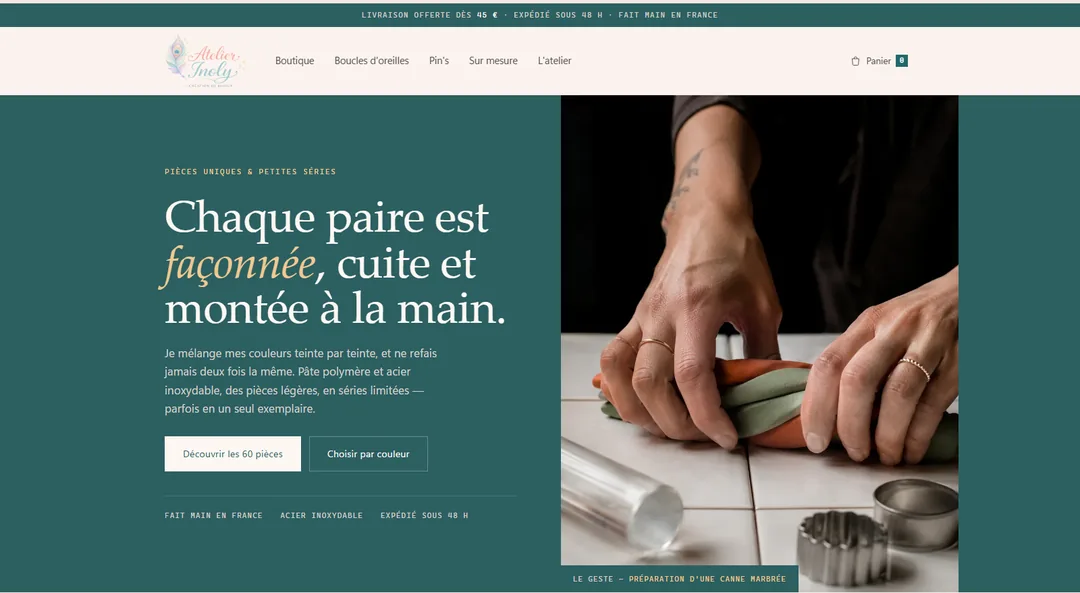
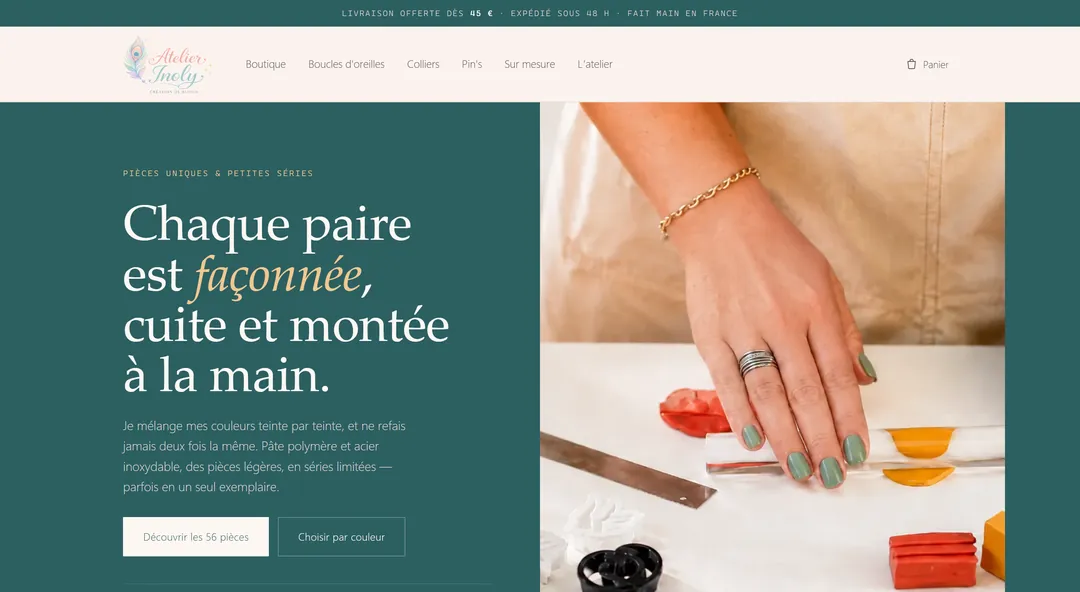
Atelier Inoly est livre : passe le projet en tete du portfolio et de l'accueil
Le site tourne sur atelierinoly.fr. L'etude de cas perd son badge
« Projet en cours » et gagne un lien « Voir le site en ligne ». Elle
passe devant Charlies Gabriella, et prend sa place dans le bloc
« Derniere realisation » de l'accueil.

Les six captures sont refaites depuis le site reel. Le chapeau du
portfolio annonce desormais deux sites en ligne au lieu d'un.

La FAQ de /site-ecommerce parlait de WooCommerce sans pouvoir le
prouver : elle renvoie maintenant vers l'etude de cas. La regle CSS
.offer__item .link-out existait mais etait morte — il lui manquait
grid-column pour tomber sous le paragraphe. D'ou le passage du CSS
en v=14 sur les sept pages.

diff --git a/portfolio.html b/portfolio.html
@@ -30,7 +30,7 @@
 <link rel="preload" href="/assets/fonts/bricolage-grotesque-latin.woff2" as="font" type="font/woff2" crossorigin>
 <link rel="preload" href="/assets/fonts/inter-tight-latin.woff2" as="font" type="font/woff2" crossorigin>
 <link rel="stylesheet" href="/assets/css/fonts.css?v=1">
-<link rel="stylesheet" href="/assets/css/style.css?v=13">
+<link rel="stylesheet" href="/assets/css/style.css?v=14">
 </head>
 <body>
 
@@ -79,14 +79,115 @@
         et des décisions. Voici les miennes, projet par projet.
       </p>
       <p class="lede">
-        Quatre projets, à trois stades différents : un site en ligne, une boutique en
-        cours de développement, et deux sites de démonstration que j'ai construits pour
-        moi. Chacun porte son statut — vous saurez toujours ce que vous regardez.
+        Quatre projets : deux sites en ligne, et deux sites de démonstration que j'ai
+        construits pour moi. Chacun porte son statut — vous saurez toujours ce que
+        vous regardez.
       </p>
     </div>
   </section>
 
   <!-- ────────────────────────  ÉTUDE DE CAS  ──────────────────────── -->
+  <article class="section section--bone case">
+    <div class="shell">
+
+      <figure class="case__shot">
+        <picture>
+          <source type="image/webp"
+                  sizes="(max-width: 1100px) 100vw, 1040px"
+                  srcset="/assets/img/atelier-inoly-720.webp?v=2 720w,
+                          /assets/img/atelier-inoly-1080.webp?v=2 1080w,
+                          /assets/img/atelier-inoly-1440.webp?v=2 1440w">
+          <img src="/assets/img/atelier-inoly-1080.jpg?v=2"
+               sizes="(max-width: 1100px) 100vw, 1040px"
+               srcset="/assets/img/atelier-inoly-720.jpg?v=2 720w,
+                       /assets/img/atelier-inoly-1080.jpg?v=2 1080w,
+                       /assets/img/atelier-inoly-1440.jpg?v=2 1440w"
+               alt="Page d'accueil du site Atelier Inoly : titre « Chaque paire est façonnée, cuite et montée à la main » et photo d'un geste de façonnage en pâte polymère"
+               width="1440" height="790" fetchpriority="high">
+        </picture>
+      </figure>
+
+      <div class="case__body">
+        <div class="case__intro">
+          <p class="label">Étude de cas</p>
+          <h2 class="section__title">Atelier Inoly — la boutique de bijoux de Gwenaëlle</h2>
+          <p class="lede">
+            Une refonte de boutique en ligne pensée pour un produit où la couleur prime sur
+            tout : chaque bijou est une pièce quasi unique, et un classement par catégorie
+            ne suffit pas à s'y retrouver.
+          </p>
+          <a class="link-out" href="https://atelierinoly.fr/" target="_blank" rel="noopener">
+            Voir le site en ligne
+            <span aria-hidden="true">↗</span>
+          </a>
+        </div>
+
+        <div class="case__text">
+          <h3>Le besoin</h3>
+          <p>
+            Gwenaëlle façonne des bijoux en pâte polymère et acier inoxydable sous le nom
+            Atelier Inoly : boucles d'oreilles et pin's, en pièces uniques ou petites séries,
+            jamais deux fois la même teinte. Sa boutique en ligne ne rendait pas justice à ce
+            travail — impossible de naviguer par couleur, aucun espace pour expliquer la
+            fabrication, et pas de page pour le sur-mesure qu'elle propose déjà à ses clientes.
+          </p>
+
+          <h3>La réponse</h3>
+          <p>
+            Une charte graphique reconstruite à partir des contraintes de lisibilité réelles
+            du logo plutôt que de ses couleurs telles quelles, et un dispositif de navigation
+            par teinte — le nuancier — qui devient l'entrée principale du catalogue. Une page
+            dédiée présente l'atelier et le geste ; une autre porte la demande de bijou sur
+            mesure, jusque-là absente du site.
+          </p>
+
+          <h3>Ce que contient le site</h3>
+          <ul class="case__list">
+            <li>Un nuancier pour parcourir le catalogue par couleur plutôt que par catégorie</li>
+            <li>Une fiche produit avec choix de teinte et disponibilité par pièce</li>
+            <li>Une page « Sur mesure » avec formulaire de demande personnalisée</li>
+            <li>Une page « L'atelier » qui présente Gwenaëlle et sa façon de travailler</li>
+            <li>Un catalogue de 56 pièces, filtrable et paginé</li>
+          </ul>
+
+          <h3>Le choix technique</h3>
+          <p>
+            Contrairement à Charlies Gabriella, Gwenaëlle doit gérer elle-même son stock, ses
+            commandes et ses fiches produit au quotidien : WordPress et WooCommerce, plutôt
+            qu'un site statique, sont ici le bon outil. Le thème est développé sur mesure
+            au-dessus de WooCommerce plutôt que de partir d'un thème du commerce, pour que la
+            navigation par couleur — le vrai sujet du site — ne soit pas un compromis.
+          </p>
+        </div>
+
+        <dl class="case__meta">
+          <div>
+            <dt>Client</dt>
+            <dd>Gwenaëlle — Atelier Inoly</dd>
+          </div>
+          <div>
+            <dt>Projet</dt>
+            <dd>Refonte de boutique en ligne</dd>
+          </div>
+          <div>
+            <dt>Année</dt>
+            <dd>2026</dd>
+          </div>
+          <div>
+            <dt>Réalisation</dt>
+            <dd>Thème WordPress / WooCommerce sur mesure</dd>
+          </div>
+        </dl>
+      </div>
+
+    </div>
+  </article>
+
+  <div class="section section--bone case-divider">
+    <span>Étude de cas — 02 / 04</span>
+  </div>
+
+  <!-- ────────────────────────  ÉTUDE DE CAS 2  ─────────────────────── -->
   <article class="section section--bone case">
     <div class="shell">
 
@@ -103,7 +204,7 @@
                        /assets/img/charliesgi-1080.jpg 1080w,
                        /assets/img/charliesgi-1440.jpg 1440w"
                alt="Page d'accueil du site Charlies Gabriella : titre « Rituel du Portail du Lion 8/8 », illustration d'un lion, bouton de réservation et barre d'achat"
-               width="1440" height="1000" fetchpriority="high">
+               width="1440" height="1000" loading="lazy">
         </picture>
       </figure>
 
@@ -174,104 +275,6 @@
           <div>
             <dt>Réalisation</dt>
             <dd>Page unique statique, paiement Stripe</dd>
-          </div>
-        </dl>
-      </div>
-
-    </div>
-  </article>
-
-  <div class="section section--bone case-divider">
-    <span>Étude de cas — 02 / 04</span>
-  </div>
-
-  <!-- ────────────────────────  ÉTUDE DE CAS 2  ─────────────────────── -->
-  <article class="section section--bone case">
-    <div class="shell">
-
-      <figure class="case__shot">
-        <picture>
-          <source type="image/webp"
-                  sizes="(max-width: 1100px) 100vw, 1040px"
-                  srcset="/assets/img/atelier-inoly-720.webp 720w,
-                          /assets/img/atelier-inoly-1080.webp 1080w,
-                          /assets/img/atelier-inoly-1440.webp 1440w">
-          <img src="/assets/img/atelier-inoly-1080.jpg"
-               sizes="(max-width: 1100px) 100vw, 1040px"
-               srcset="/assets/img/atelier-inoly-720.jpg 720w,
-                       /assets/img/atelier-inoly-1080.jpg 1080w,
-                       /assets/img/atelier-inoly-1440.jpg 1440w"
-               alt="Maquette de la page d'accueil Atelier Inoly : titre « Chaque paire est façonnée, cuite et montée à la main » et photo d'un geste de façonnage en pâte polymère"
-               width="1440" height="790" loading="lazy">
-        </picture>
-      </figure>
-
-      <div class="case__body">
-        <div class="case__intro">
-          <p class="label">Étude de cas</p>
-          <span class="case__status">Projet en cours — pas encore en ligne</span>
-          <h2 class="section__title">Atelier Inoly — la boutique de bijoux de Gwenaëlle</h2>
-          <p class="lede">
-            Une refonte de boutique en ligne pensée pour un produit où la couleur prime sur
-            tout : chaque bijou est une pièce quasi unique, et un classement par catégorie
-            ne suffit pas à s'y retrouver.
-          </p>
-        </div>
-
-        <div class="case__text">
-          <h3>Le besoin</h3>
-          <p>
-            Gwenaëlle façonne des bijoux en pâte polymère et acier inoxydable sous le nom
-            Atelier Inoly : boucles d'oreilles et pin's, en pièces uniques ou petites séries,
-            jamais deux fois la même teinte. Sa boutique en ligne ne rendait pas justice à ce
-            travail — impossible de naviguer par couleur, aucun espace pour expliquer la
-            fabrication, et pas de page pour le sur-mesure qu'elle propose déjà à ses clientes.
-          </p>
-
-          <h3>La réponse</h3>
-          <p>
-            Une charte graphique reconstruite à partir des contraintes de lisibilité réelles
-            du logo plutôt que de ses couleurs telles quelles, et un dispositif de navigation
-            par teinte — le nuancier — qui devient l'entrée principale du catalogue. Une page
-            dédiée présente l'atelier et le geste ; une autre porte la demande de bijou sur
-            mesure, jusque-là absente du site.
-          </p>
-
-          <h3>Ce que contient la maquette</h3>
-          <ul class="case__list">
-            <li>Un nuancier pour parcourir le catalogue par couleur plutôt que par catégorie</li>
-            <li>Une fiche produit avec choix de teinte et disponibilité par pièce</li>
-            <li>Une page « Sur mesure » avec formulaire de demande personnalisée</li>
-            <li>Une page « L'atelier » qui présente Gwenaëlle et sa façon de travailler</li>
-            <li>Un catalogue de 60 pièces, filtrable et paginé</li>
-          </ul>
-
-          <h3>Le choix technique</h3>
-          <p>
-            Contrairement à Charlies Gabriella, Gwenaëlle doit gérer elle-même son stock, ses
-            commandes et ses fiches produit au quotidien : WordPress et WooCommerce, plutôt
-            qu'un site statique, sont ici le bon outil. Le thème est développé sur mesure
-            au-dessus de WooCommerce plutôt que de partir d'un thème du commerce, pour que la
-            navigation par couleur — le vrai sujet du site — ne soit pas un compromis.
-          </p>
-        </div>
-
-        <dl class="case__meta">
-          <div>
-            <dt>Client</dt>
-            <dd>Gwenaëlle — Atelier Inoly</dd>
-          </div>
-          <div>
-            <dt>Projet</dt>
-            <dd>Refonte de boutique en ligne</dd>
-          </div>
-          <div>
-            <dt>Statut</dt>
-            <dd>Maquette validée, développement en cours</dd>
-          </div>
-          <div>
-            <dt>Réalisation</dt>
-            <dd>Thème WordPress / WooCommerce sur mesure</dd>
           </div>
         </dl>
       </div>

diff --git a/index.html b/index.html
@@ -31,7 +31,7 @@
 <link rel="preload" href="/assets/fonts/bricolage-grotesque-latin.woff2" as="font" type="font/woff2" crossorigin>
 <link rel="preload" href="/assets/fonts/inter-tight-latin.woff2" as="font" type="font/woff2" crossorigin>
 <link rel="stylesheet" href="/assets/css/fonts.css?v=1">
-<link rel="stylesheet" href="/assets/css/style.css?v=13">
+<link rel="stylesheet" href="/assets/css/style.css?v=14">
 
 <!-- Données structurées : décrivent l'activité à Google dans un format
      qu'il lit sans interprétation. « address » est le siège réel, qui
@@ -194,10 +194,10 @@
     <div class="shell showcase__inner">
       <div class="showcase__text">
         <p class="label">Dernière réalisation</p>
-        <h2 class="section__title">Charlies Gabriella — Rituel du Portail du Lion</h2>
+        <h2 class="section__title">Atelier Inoly — la boutique de bijoux de Gwenaëlle</h2>
         <p class="lede">
-          Une page de vente pour un lancement daté : quatre paliers de prix,
-          un compte à rebours, et un paiement en un clic.
+          Une boutique en ligne où l'on choisit d'abord la couleur : un nuancier
+          en guise de rayon, 56 pièces, et un thème WooCommerce fait sur mesure.
         </p>
         <a class="link-out" href="/portfolio">
           Voir l'étude de cas
@@ -205,20 +205,20 @@
         </a>
       </div>
 
-      <a class="showcase__shot" href="/portfolio" aria-label="Voir l'étude de cas du site Charlies Gabriella">
+      <a class="showcase__shot" href="/portfolio" aria-label="Voir l'étude de cas du site Atelier Inoly">
         <picture>
           <source type="image/webp"
                   sizes="(max-width: 900px) 100vw, 50vw"
-                  srcset="/assets/img/charliesgi-720.webp 720w,
-                          /assets/img/charliesgi-1080.webp 1080w,
-                          /assets/img/charliesgi-1440.webp 1440w">
-          <img src="/assets/img/charliesgi-1080.jpg"
+                  srcset="/assets/img/atelier-inoly-720.webp?v=2 720w,
+                          /assets/img/atelier-inoly-1080.webp?v=2 1080w,
+                          /assets/img/atelier-inoly-1440.webp?v=2 1440w">
+          <img src="/assets/img/atelier-inoly-1080.jpg?v=2"
                sizes="(max-width: 900px) 100vw, 50vw"
-               srcset="/assets/img/charliesgi-720.jpg 720w,
-                       /assets/img/charliesgi-1080.jpg 1080w,
-                       /assets/img/charliesgi-1440.jpg 1440w"
-               alt="Page d'accueil du site Charlies Gabriella : titre « Rituel du Portail du Lion 8/8 » et illustration d'un lion"
-               width="1440" height="1000" loading="lazy">
+               srcset="/assets/img/atelier-inoly-720.jpg?v=2 720w,
+                       /assets/img/atelier-inoly-1080.jpg?v=2 1080w,
+                       /assets/img/atelier-inoly-1440.jpg?v=2 1440w"
+               alt="Page d'accueil du site Atelier Inoly : titre « Chaque paire est façonnée, cuite et montée à la main » et photo d'un geste de façonnage en pâte polymère"
+               width="1440" height="790" loading="lazy">
         </picture>
       </a>
     </div>

diff --git a/site-ecommerce.html b/site-ecommerce.html
@@ -30,7 +30,7 @@
 <link rel="preload" href="/assets/fonts/bricolage-grotesque-latin.woff2" as="font" type="font/woff2" crossorigin>
 <link rel="preload" href="/assets/fonts/inter-tight-latin.woff2" as="font" type="font/woff2" crossorigin>
 <link rel="stylesheet" href="/assets/css/fonts.css?v=1">
-<link rel="stylesheet" href="/assets/css/style.css?v=13">
+<link rel="stylesheet" href="/assets/css/style.css?v=14">
 
 <script type="application/ld+json">
 {
@@ -184,6 +184,10 @@
         <article class="offer__item">
           <h3>Sur quelle solution ma boutique sera-t-elle construite&nbsp;?</h3>
           <p>Celle qui correspond à votre catalogue, pas celle que je préfère. Pour une boutique qui vit — beaucoup de références, des stocks, des promotions, plusieurs personnes qui traitent les commandes — <strong>WooCommerce sur WordPress</strong> est un choix solide et éprouvé. Pour un catalogue restreint et stable, une boutique codée à la main avec un paiement Stripe s'affiche plus vite et ne coûte presque rien à faire tourner. On tranche pendant l'audit, avec le coût sur trois ans sous les yeux.</p>
+          <a class="link-out" href="/portfolio">
+            Voir la boutique WooCommerce d'Atelier Inoly
+            <span aria-hidden="true">↗</span>
+          </a>
         </article>
 
         <article class="offer__item">

diff --git a/refonte-site-internet.html b/refonte-site-internet.html
@@ -30,7 +30,7 @@
 <link rel="preload" href="/assets/fonts/bricolage-grotesque-latin.woff2" as="font" type="font/woff2" crossorigin>
 <link rel="preload" href="/assets/fonts/inter-tight-latin.woff2" as="font" type="font/woff2" crossorigin>
 <link rel="stylesheet" href="/assets/css/fonts.css?v=1">
-<link rel="stylesheet" href="/assets/css/style.css?v=13">
+<link rel="stylesheet" href="/assets/css/style.css?v=14">
 
 <script type="application/ld+json">
 {

diff --git a/site-vitrine.html b/site-vitrine.html
@@ -30,7 +30,7 @@
 <link rel="preload" href="/assets/fonts/bricolage-grotesque-latin.woff2" as="font" type="font/woff2" crossorigin>
 <link rel="preload" href="/assets/fonts/inter-tight-latin.woff2" as="font" type="font/woff2" crossorigin>
 <link rel="stylesheet" href="/assets/css/fonts.css?v=1">
-<link rel="stylesheet" href="/assets/css/style.css?v=13">
+<link rel="stylesheet" href="/assets/css/style.css?v=14">
 
 <script type="application/ld+json">
 {

diff --git a/404.html b/404.html
@@ -21,7 +21,7 @@
 <link rel="preload" href="/assets/fonts/bricolage-grotesque-latin.woff2" as="font" type="font/woff2" crossorigin>
 <link rel="preload" href="/assets/fonts/inter-tight-latin.woff2" as="font" type="font/woff2" crossorigin>
 <link rel="stylesheet" href="/assets/css/fonts.css?v=1">
-<link rel="stylesheet" href="/assets/css/style.css?v=13">
+<link rel="stylesheet" href="/assets/css/style.css?v=14">
 </head>
 <body>
 

diff --git a/mentions-legales.html b/mentions-legales.html
@@ -27,7 +27,7 @@
 <link rel="preload" href="/assets/fonts/bricolage-grotesque-latin.woff2" as="font" type="font/woff2" crossorigin>
 <link rel="preload" href="/assets/fonts/inter-tight-latin.woff2" as="font" type="font/woff2" crossorigin>
 <link rel="stylesheet" href="/assets/css/fonts.css?v=1">
-<link rel="stylesheet" href="/assets/css/style.css?v=13">
+<link rel="stylesheet" href="/assets/css/style.css?v=14">
 </head>
 <body>
 

diff --git a/assets/css/style.css b/assets/css/style.css
@@ -397,6 +397,7 @@ a{color:inherit}
 .offer__item h3{font-size:1.3rem;font-weight:600;margin:0}
 .offer__item p{margin:0;color:var(--ink-soft);max-width:58ch}
 .offer__item .link-out{margin-top:.9rem}
+@media (min-width:760px){.offer__item .link-out{grid-column:2}}
 
 /* =============================================================
    À PROPOS

diff --git a/CLAUDE.md b/CLAUDE.md
@@ -136,18 +136,24 @@ jamais laisser une démonstration passer pour une commande client.
 | Client réel, en cours | « Projet en cours — pas encore en ligne » | `.case__status` (contour) |
 | Démonstration | « Projet de démonstration — … fictif » | `.case__status.case__status--demo` (plein) |
 
-**Les quatre projets au 24/08/2026 :**
+**Les quatre projets au 01/09/2026 :**
 
 1. **Charlies Gabriella** — landing page de vente à la main, paiement **Stripe**.
    Livré et en ligne. ⚠ Ce n'est **pas** un site Shopify.
-2. **Atelier Inoly** (Gwenaëlle) — refonte WooCommerce. Client réel, en cours.
+2. **Atelier Inoly** (Gwenaëlle) — refonte WooCommerce, thème sur mesure. Livré et
+   en ligne sur **atelierinoly.fr** (01/09/2026). Mis en avant dans le bloc
+   « Dernière réalisation » de l'accueil, placé en tête du portfolio, et maillé
+   depuis la FAQ de `/site-ecommerce` — la page parlait de WooCommerce sans
+   pouvoir le prouver.
 3. **Brasa** — restaurant à Metz, 5 pages. **Démonstration, fictif.** Coordonnées,
    carte, prix et témoignages inventés : ne jamais les reprendre ailleurs, ni
    sur ce site ni dans un JSON-LD.
 4. **Lexora** — cabinet d'avocats à Metz, page unique. **Démonstration, fictif.**
 
 **Ordre d'affichage : le réel d'abord, la démonstration ensuite.** Ne pas
-intercaler. Un futur projet livré s'insère avant Brasa, pas à la fin.
+intercaler. Le plus récent des projets réels ouvre le portfolio et alimente le
+bloc « Dernière réalisation » de l'accueil — les deux pages montrent le même
+projet en tête. Un futur projet livré s'insère avant Brasa, pas à la fin.
 
 ### Les démonstrations en ligne — `/demos/`
 
@@ -196,4 +202,5 @@ enrichissement du portfolio, CSS critique en ligne, pages Thionville / Nancy.
 légales et en JSON-LD (`+33617970274`). S'il change, il doit être modifié
 **partout à la fois** : un numéro divergent est pire qu'absent.
 
-*Màj 01/09/2026 — historique et justifications extraits vers `CLAUDE.archive.md`.*
+*Màj 01/09/2026 — Atelier Inoly livré ; historique et justifications extraits vers
+`CLAUDE.archive.md`.*
